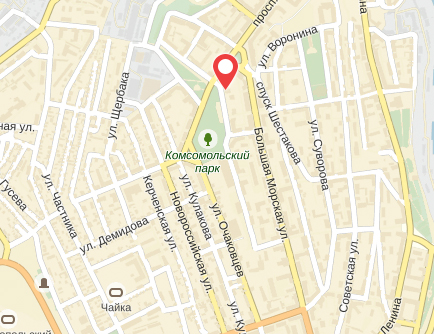
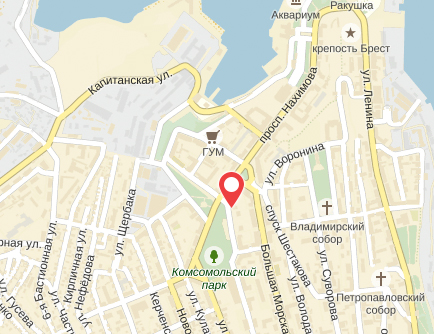
rails update, change mapss, fix add_slug_to_page_meta migration

diff --git a/app/assets/stylesheets/_base.sass b/app/assets/stylesheets/_base.sass
@@ -182,7 +182,16 @@ nav
         font-size: 16px
         color: white
         padding: 5px 10px
-        text-align: center
+
+        p
+          margin: 0
+
+          &:last-child
+            font-size: 14px
+            color: #b8c7d8
+
+      .big-map
+        margin-top: 20px
 
     .condition-wrapper
       margin-top: 25px

diff --git a/db/schema.rb b/db/schema.rb
@@ -31,7 +31,7 @@ ActiveRecord::Schema.define(version: 20150707094056) do
     t.integer  "bicycle_discount_amount",   default: 20
     t.integer  "bicycle_price",             default: 290
     t.integer  "motorbike_price",           default: 950
-    t.date     "end_day",                   default: '2015-09-06'
+    t.date     "end_day",                   default: '2015-10-17'
     t.integer  "motorbike_discount_amount", default: 30
     t.string   "slug"
   end

diff --git a/db/migrate/20150707094056_add_slug_to_page_meta.rb b/db/migrate/20150707094056_add_slug_to_page_meta.rb
@@ -2,7 +2,7 @@ class AddSlugToPageMeta < ActiveRecord::Migration
   def change
     add_column :page_meta, :slug, :string
 
-    PageMeta.find(1).update_attribute(:slug, 'bicycle')
+    PageMeta.find(1).update_column(:slug, 'bicycle')
     PageMeta.create(:slug => 'motorbike')
   end
 end
